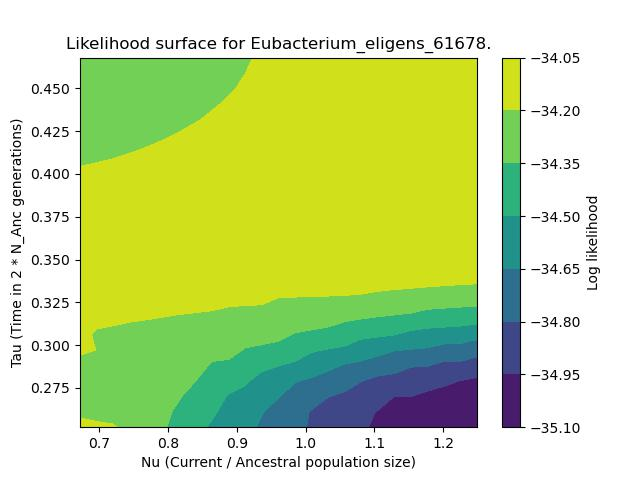
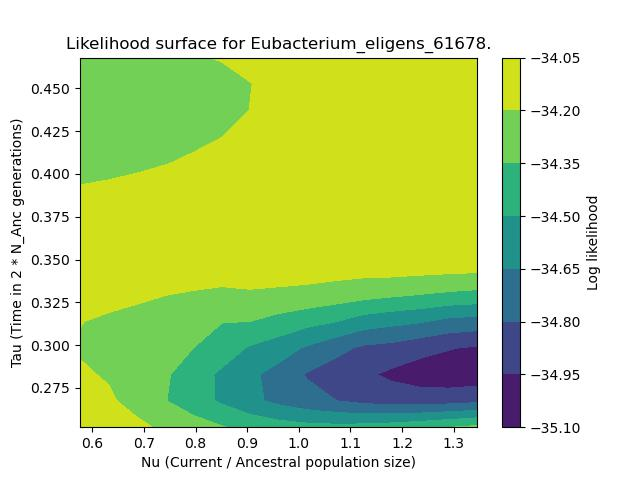
E. eligens

Changed region(s): [[0.125, 0.5625, 0.75, 0.9375], [0.125, 0.125, 0.4062, 0.4062]]

diff --git a/Scripts/plot_likelihood.py b/Scripts/plot_likelihood.py
@@ -464,14 +464,14 @@ class PlotLikelihood():
                 x = input_nu  # Initial x value
                 y = input_tau  # Initial y value
 
-                npts = 25
+                npts = 15
 
                 # B. cellulosilyticus
                 # x_range = numpy.linspace(x * 0.7, x * 1.3, npts)
                 # y_range = numpy.linspace(y  * 0.9, y * 1.3, npts)
 
                 # E. eligens
-                x_range = numpy.linspace(x * 0.7, x * 1.3, npts)
+                x_range = numpy.linspace(x * 0.6, x * 1.4, npts)
                 y_range = numpy.linspace(y * 0.7, y * 1.3, npts)
                 
 
